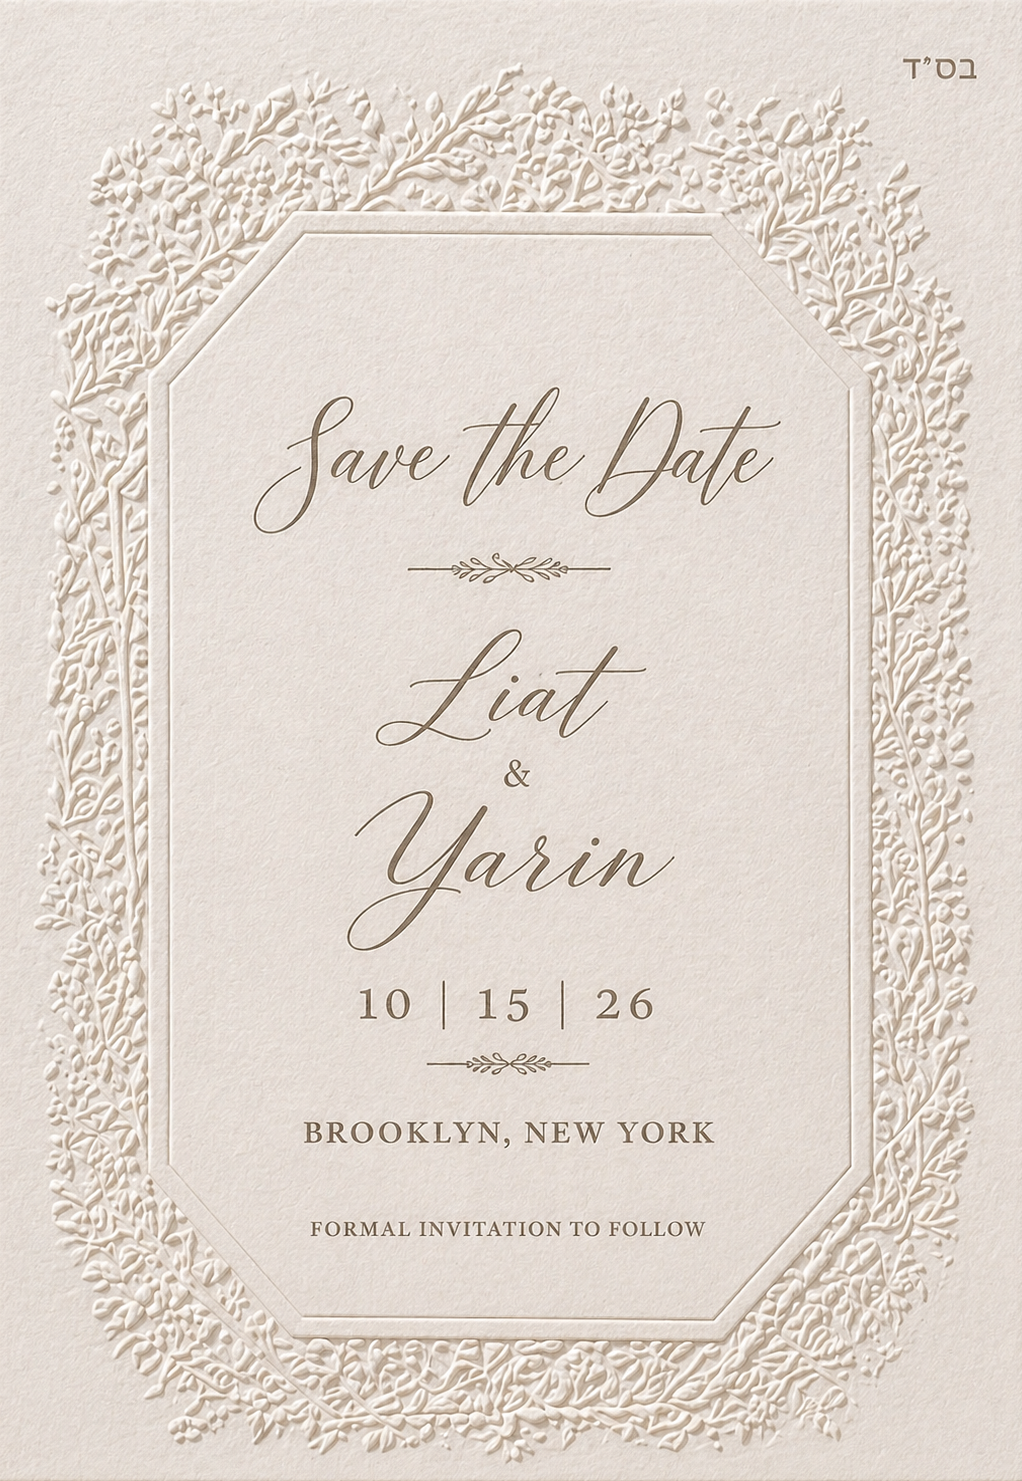
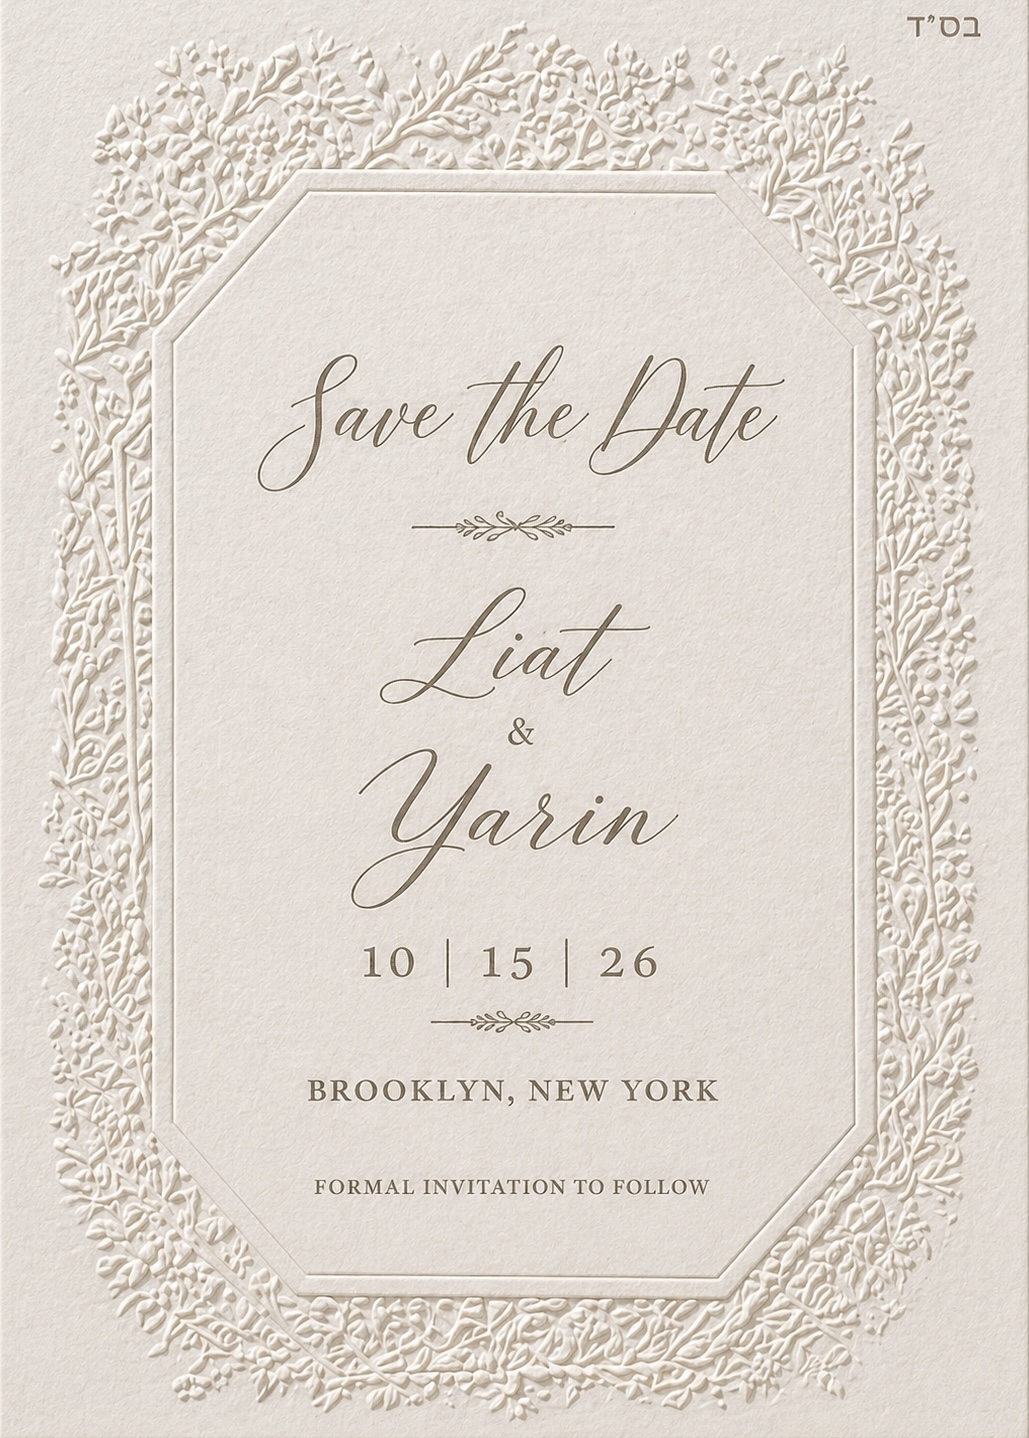
Add files via upload

diff --git a/index.html b/index.html
@@ -386,7 +386,7 @@
       left: 50%;
       transform: translate(-50%, -50%);
 
-      width:  clamp(130px, 26vw, 230px);
+      width:  clamp(150px, 31vw, 270px);
       aspect-ratio: 1 / 1;
       height: auto;
       border-radius: 50%;
@@ -529,7 +529,7 @@
     .inv-img {
       width: 100%;
       display: block;
-      border-radius: 4px;
+      border-radius: 0;
       box-shadow:
         0 3px  6px rgba(60,40,10,.08),
         0 12px 32px rgba(60,40,10,.14),
